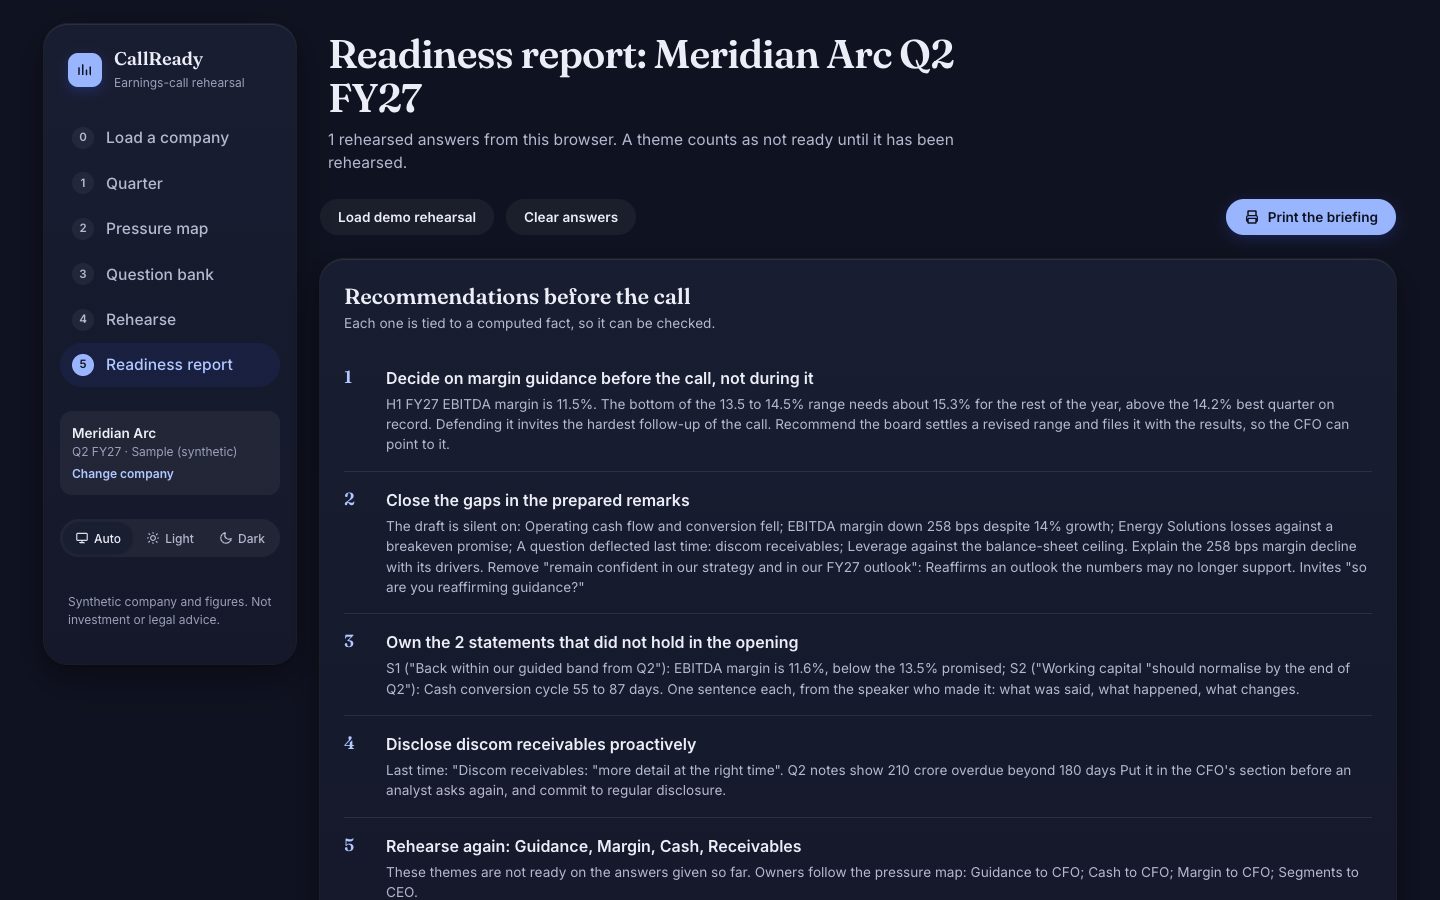
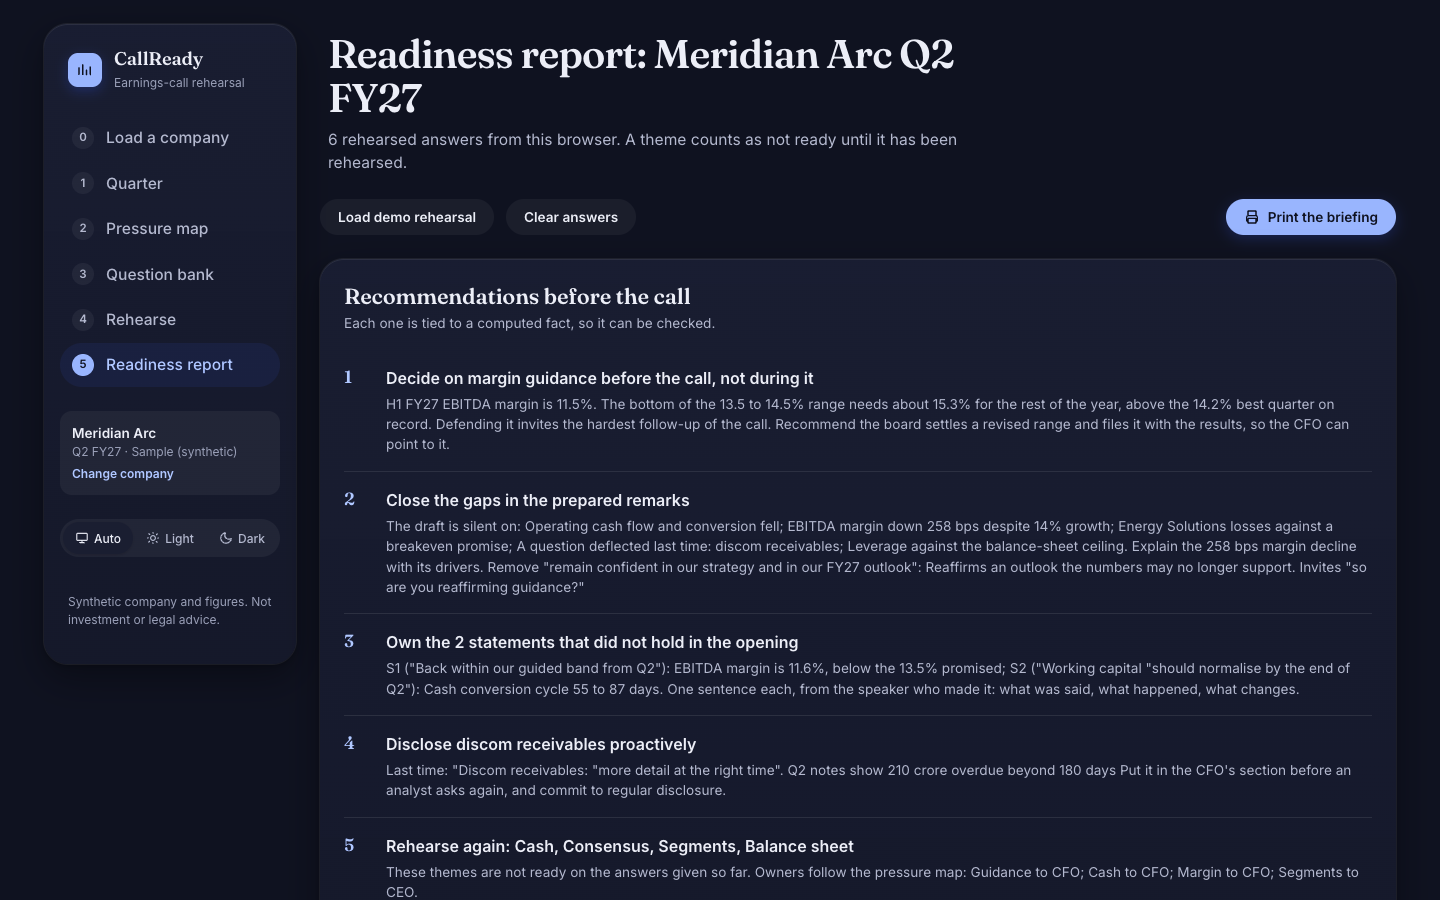
fix(ui): persona spacing, answer plural, readable chart labels on phones; pitch shows any-company upload

Changed region(s): [[0.25, 0.1244, 0.6562, 0.1867], [0.375, 0.9333, 0.5938, 0.9644]]

diff --git a/docs/07-PITCH.md b/docs/07-PITCH.md
@@ -4,8 +4,9 @@ Required by the brief: the problem, a demo of the prototype, its business value,
 
 | Time | Beat | Click | Say |
 | --- | --- | --- | --- |
-| 0:00 to 0:12 | Problem | Quarter screen (already open) | "Revenue is up 14%, but margins fell 258 basis points and cash conversion halved. Tomorrow analysts will ask why, and they will quote last quarter's promises back to the CFO. Those are the two red lights in the last column." |
-| 0:12 to 0:30 | Pressure map | Step 2 | "CallReady ranks what investors will push on, using plain arithmetic, no AI. Two promises are already broken. And this gauge is the hardest question of the call: to hit guidance, H2 needs 15.3% margin, and this company has never done better than 14.2%." |
+| 0:00 to 0:10 | Problem | Quarter screen (already open) | "Revenue is up 14%, but margins fell 258 basis points and cash conversion halved. Tomorrow analysts will ask why, and they will quote last quarter's promises back to the CFO. Those are the two red lights in the last column." |
+| 0:10 to 0:18 | Any company | Step 0, Load a company: the test datasets table | "It works on any company. Upload the results PDF: AI converts it, and rules check every figure against the document. On our test it matched 48 of 48 fields. Here are six real companies from this quarter's NSE filings." |
+| 0:18 to 0:30 | Pressure map | Step 2 (back on the sample) | "Plain arithmetic ranks what investors will push on. Two promises are already broken, and to hit guidance, H2 needs 15.3% margin: this company has never done better than 14.2%." |
 | 0:30 to 0:55 | Rehearse | Step 4 (Q01 opens), **Load a weak sample**, **Score my answer** | "The CFO practises the guidance question. The answer quotes 12.4%, which is not in the results, ignores the August promise, and gives new guidance on the fly. Red. Below it, the coach writes a stronger answer, with every number checked against the disclosures." |
 | 0:55 to 1:12 | Recommendation | Step 5, **Load demo rehearsal** | "The finance team gets a readiness report: weak themes, a contradiction between CEO and CFO on guidance, and the decision to take before the call: revise the margin band rather than defend it." |
 | 1:12 to 1:22 | Value | Same screen | "On our stated assumptions, that is about 50 hours of preparation a quarter, worth around 1.6 lakh rupees, for under 3,000 rupees of running cost. And every spokesperson tells the same story, with disclosure risks caught before anyone says them aloud." |
